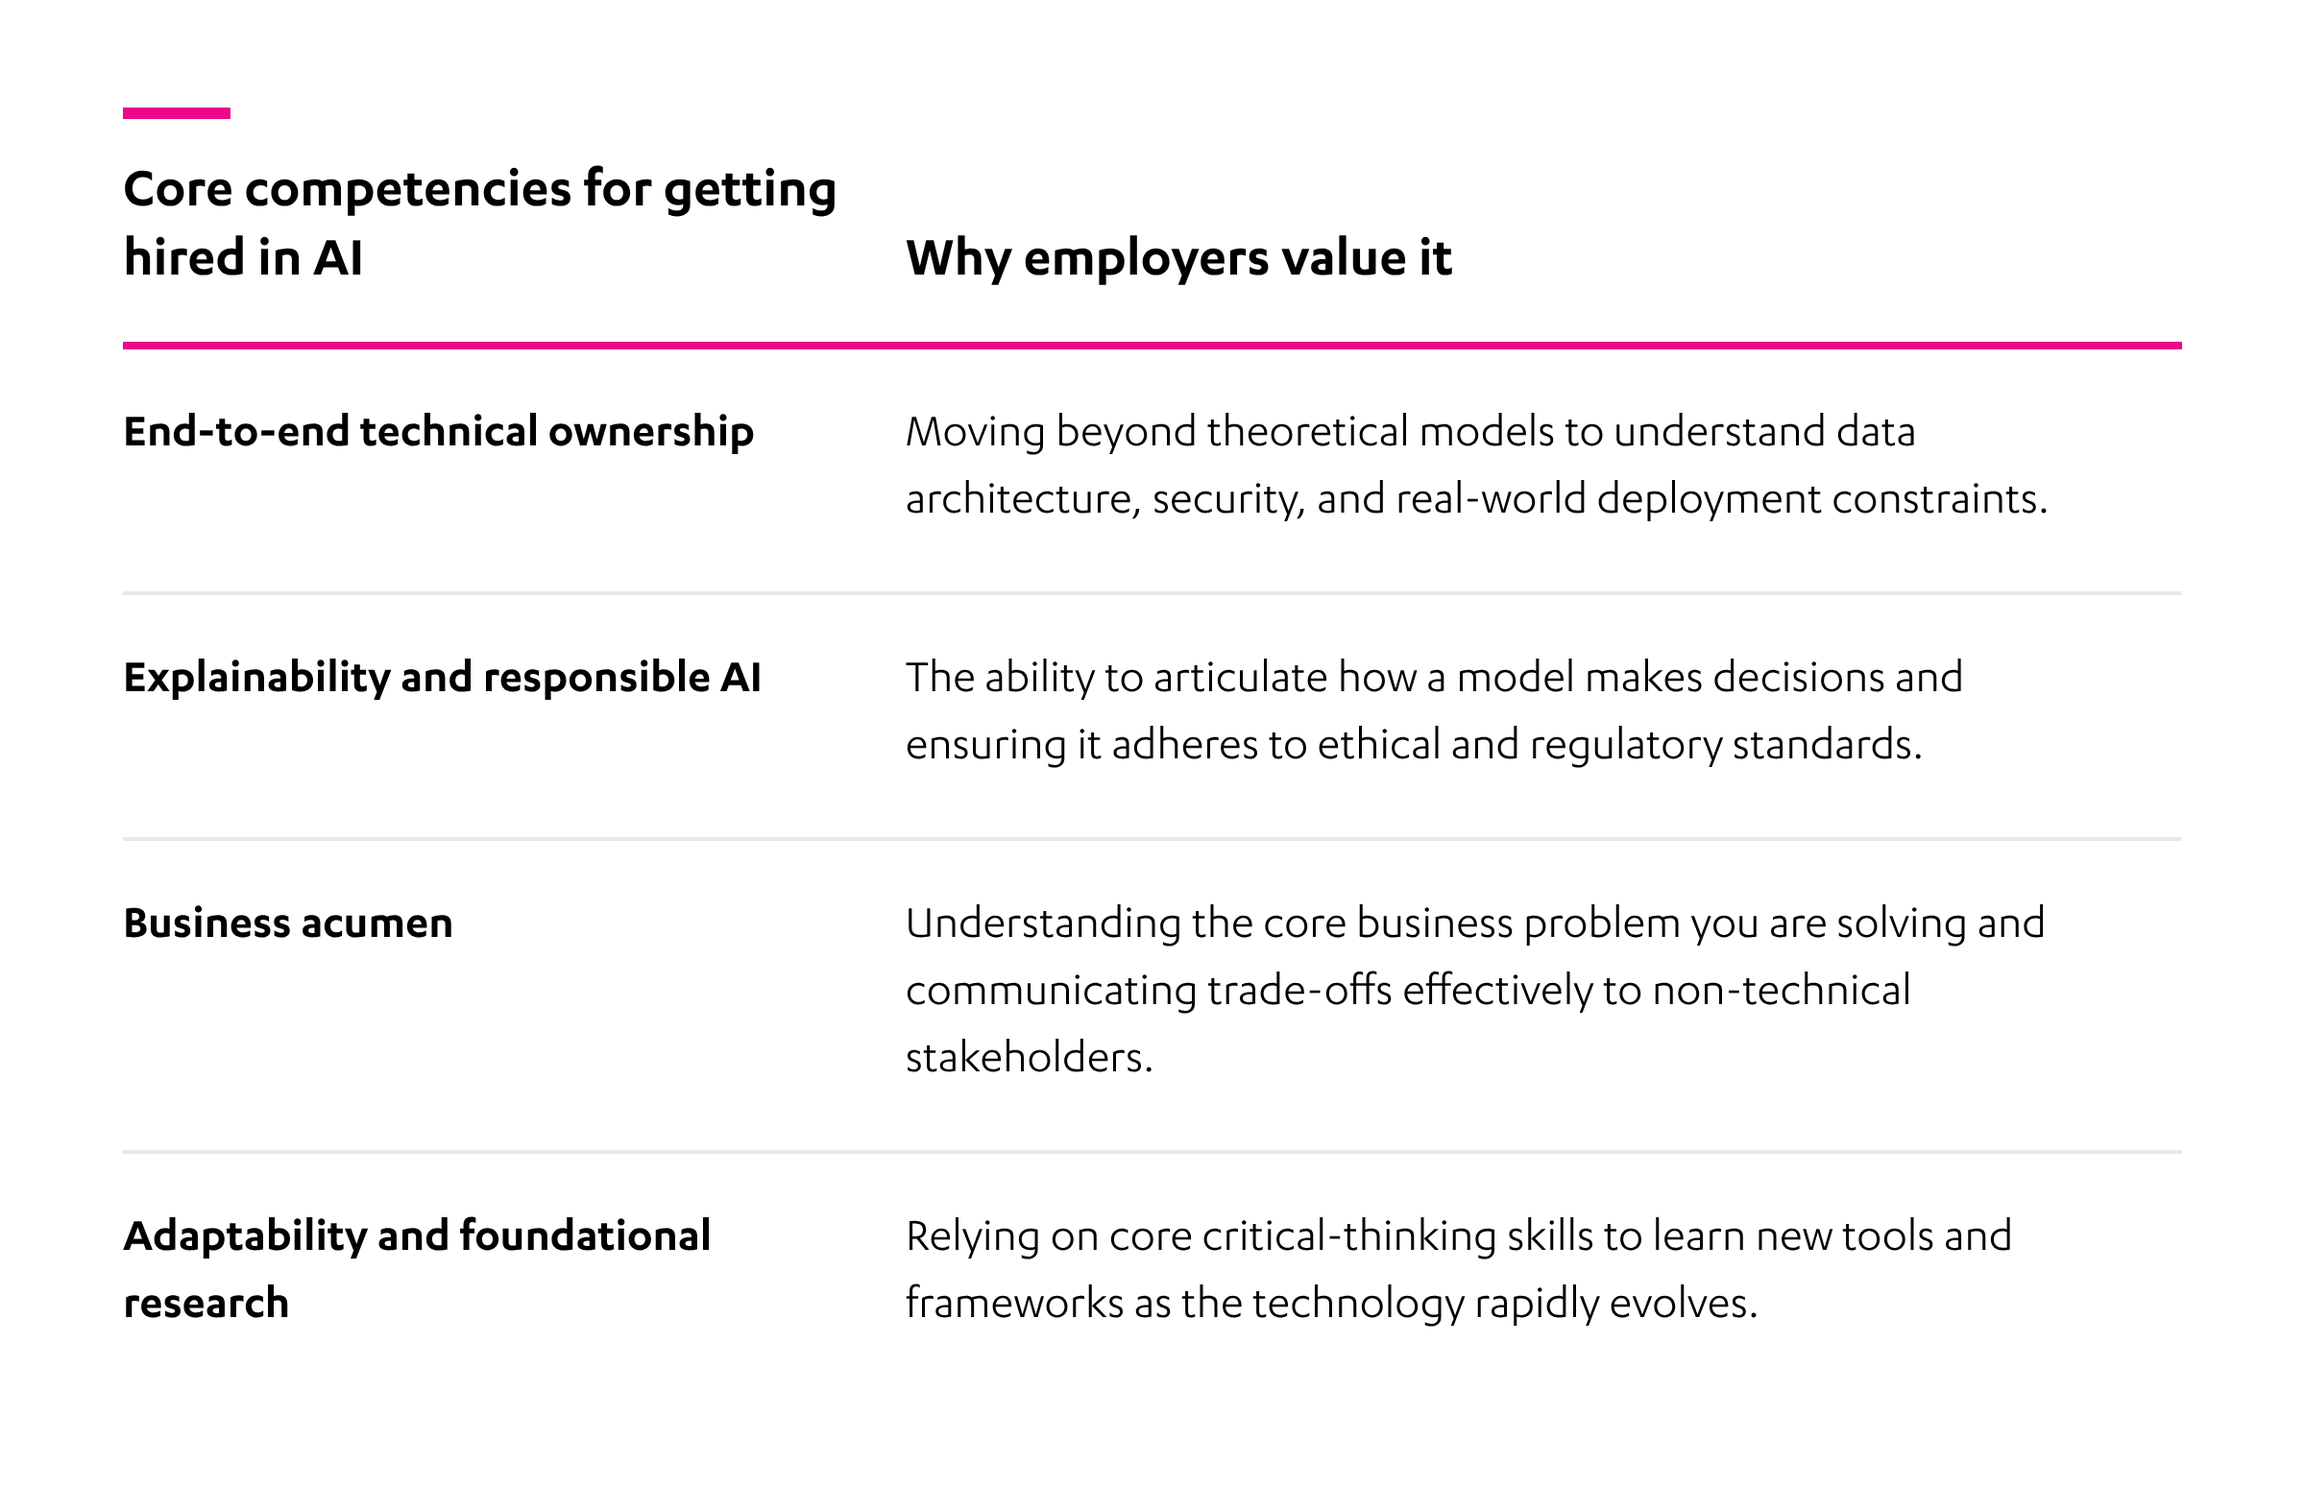
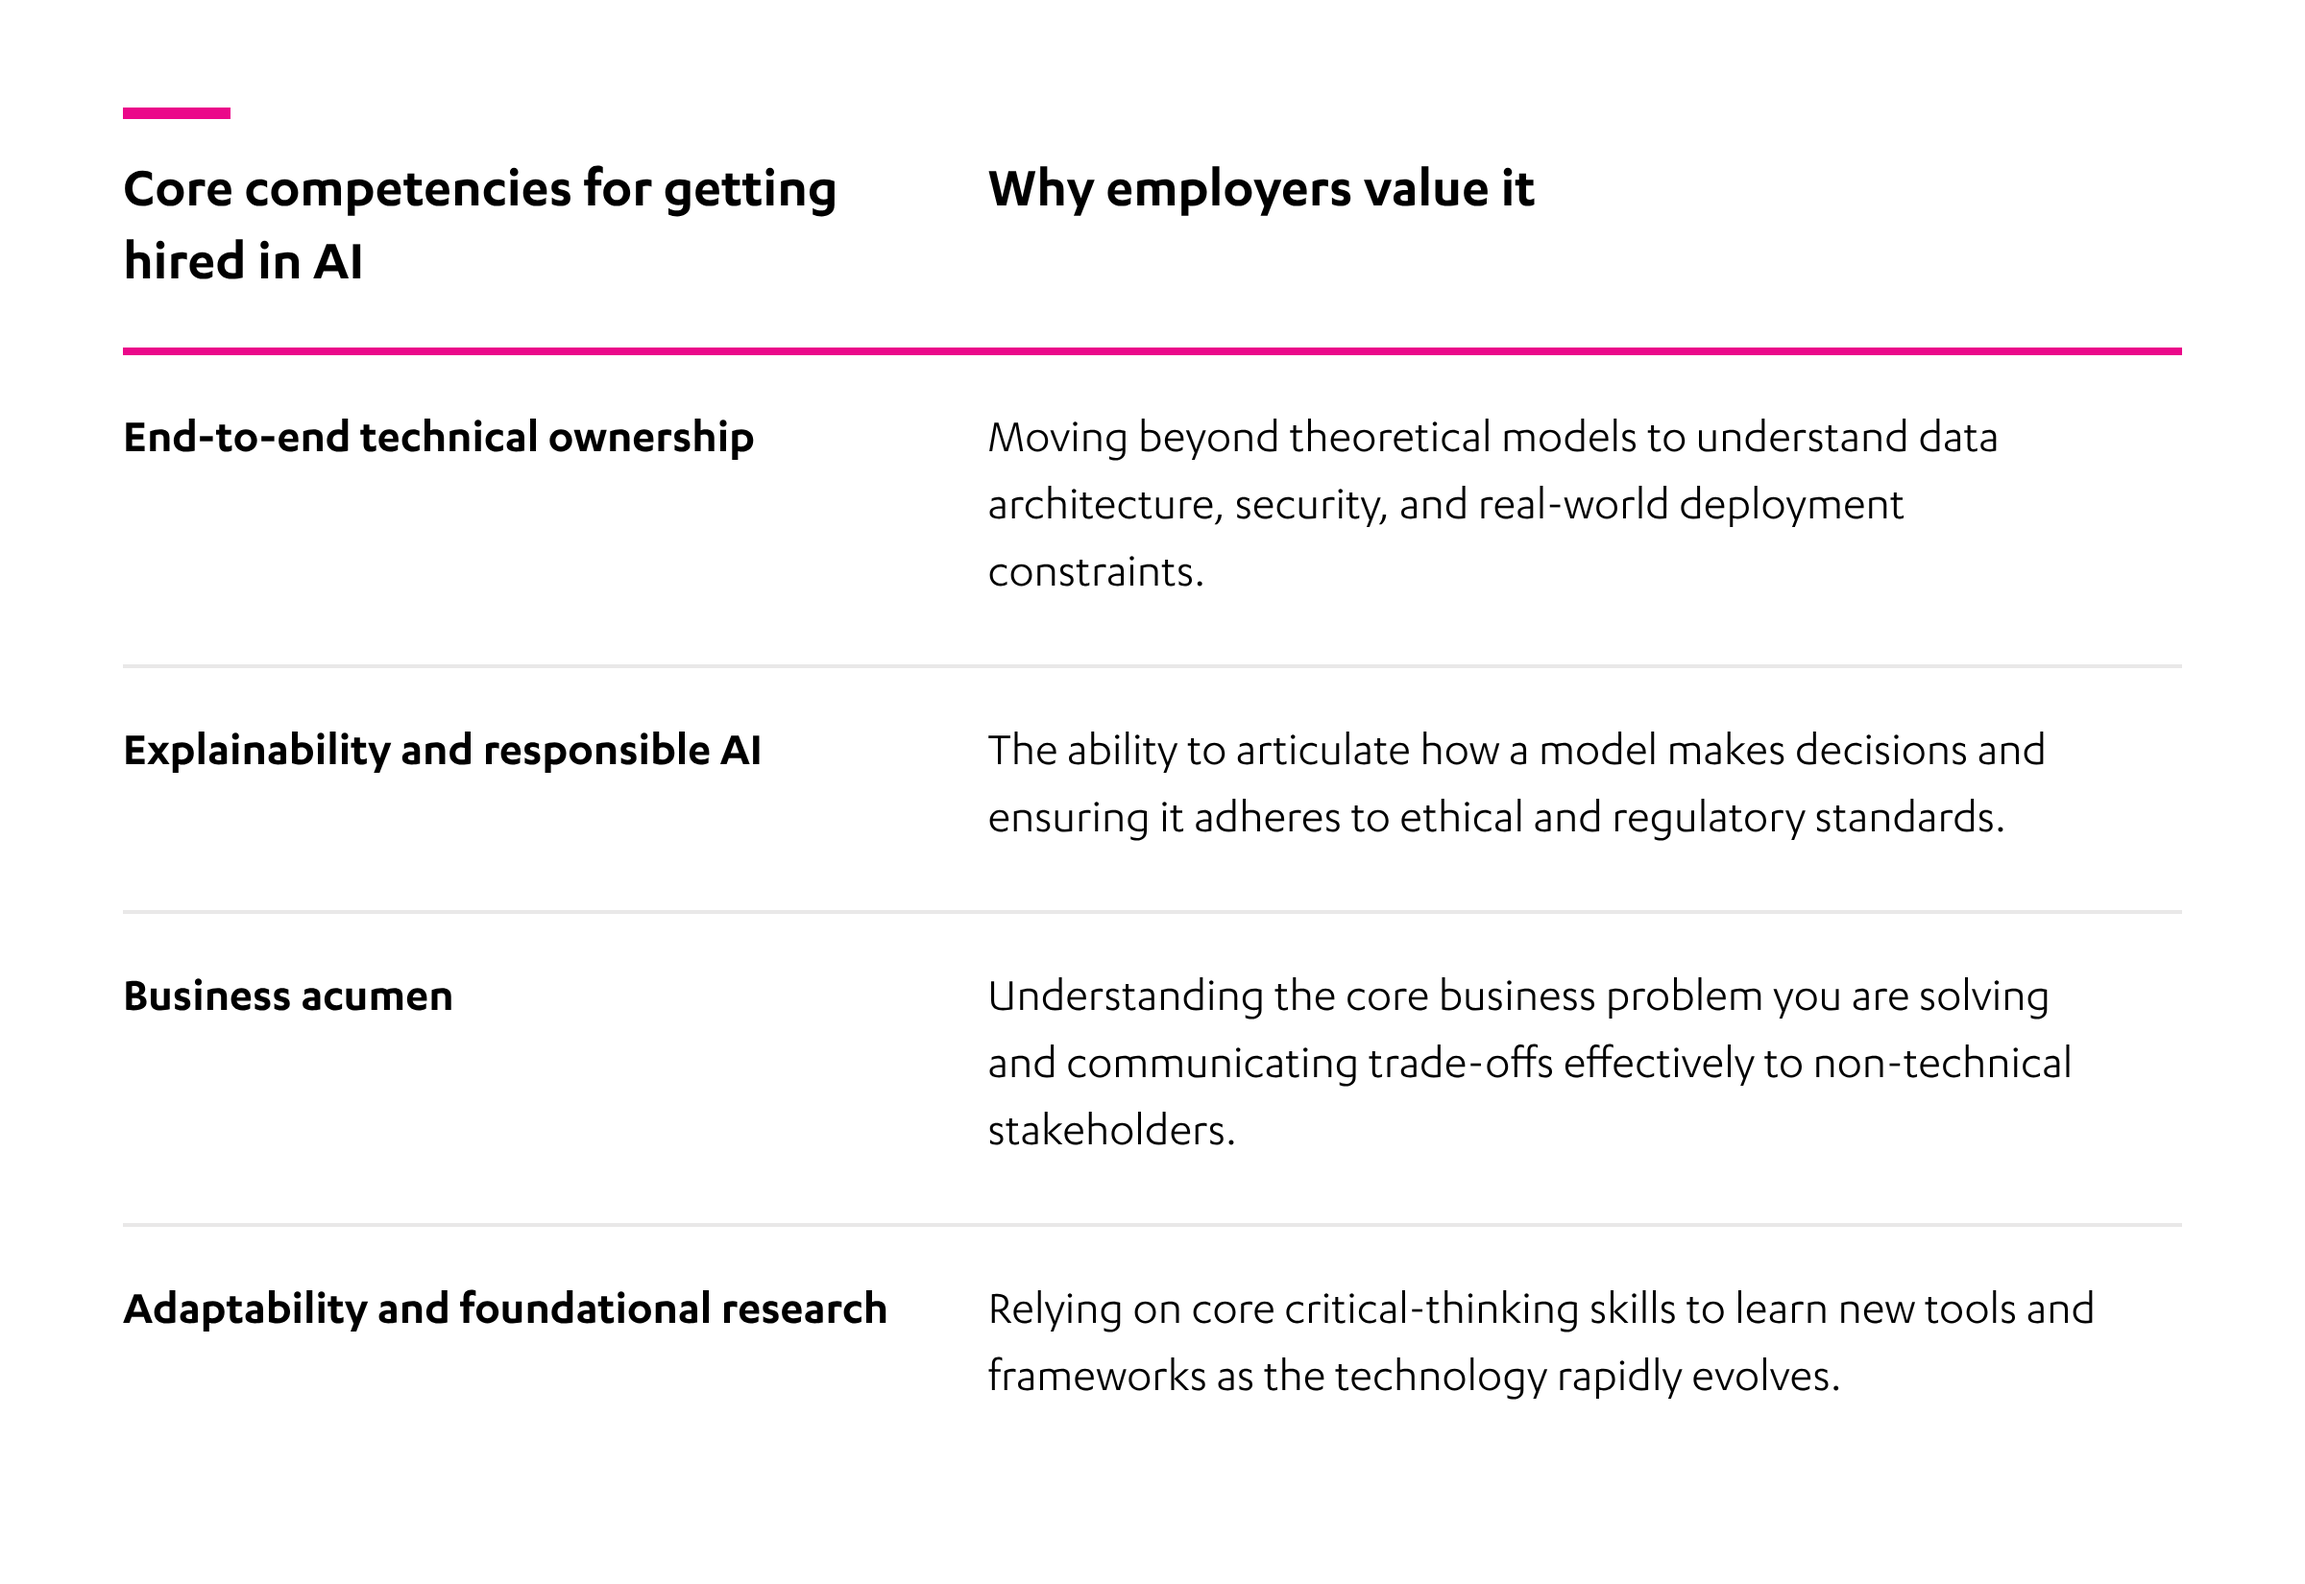
Top-align table image headers and refine its alt text
Claude-Session: https://claude.ai/code/session_01TFV9tmXu4DuU9wHP9Nd3Ft

diff --git a/blog-getting-hired-in-ai/post.html b/blog-getting-hired-in-ai/post.html
@@ -255,7 +255,7 @@ https://www.youtube.com/watch?v=GMj1BxiI_nw
 <!-- /wp:spacer -->
 
 <!-- wp:image {"lightbox":{"enabled":true},"sizeSlug":"full","linkDestination":"none"} -->
-<figure class="wp-block-image size-full"><img src="https://vectorinstitute.ai/wp-content/uploads/2026/10/core-competencies-getting-hired-in-ai.png" alt="Core competencies for getting hired in AI, and why employers value them: End-to-end technical ownership, moving beyond theoretical models to understand data architecture, security, and real-world deployment constraints. Explainability and responsible AI, the ability to articulate how a model makes decisions and ensuring it adheres to ethical and regulatory standards. Business acumen, understanding the core business problem you are solving and communicating trade-offs effectively to non-technical stakeholders. Adaptability and foundational research, relying on core critical-thinking skills to learn new tools and frameworks as the technology rapidly evolves."/></figure>
+<figure class="wp-block-image size-full"><img src="https://vectorinstitute.ai/wp-content/uploads/2026/10/core-competencies-getting-hired-in-ai.png" alt="Table of four core competencies for getting hired in AI and why employers value each one. End-to-end technical ownership: moving beyond theoretical models to understand data architecture, security, and real-world deployment constraints. Explainability and responsible AI: the ability to articulate how a model makes decisions and ensuring it adheres to ethical and regulatory standards. Business acumen: understanding the core business problem you are solving and communicating trade-offs effectively to non-technical stakeholders. Adaptability and foundational research: relying on core critical-thinking skills to learn new tools and frameworks as the technology rapidly evolves."/></figure>
 <!-- /wp:image -->
 
 <!-- wp:spacer {"height":"50px"} -->
